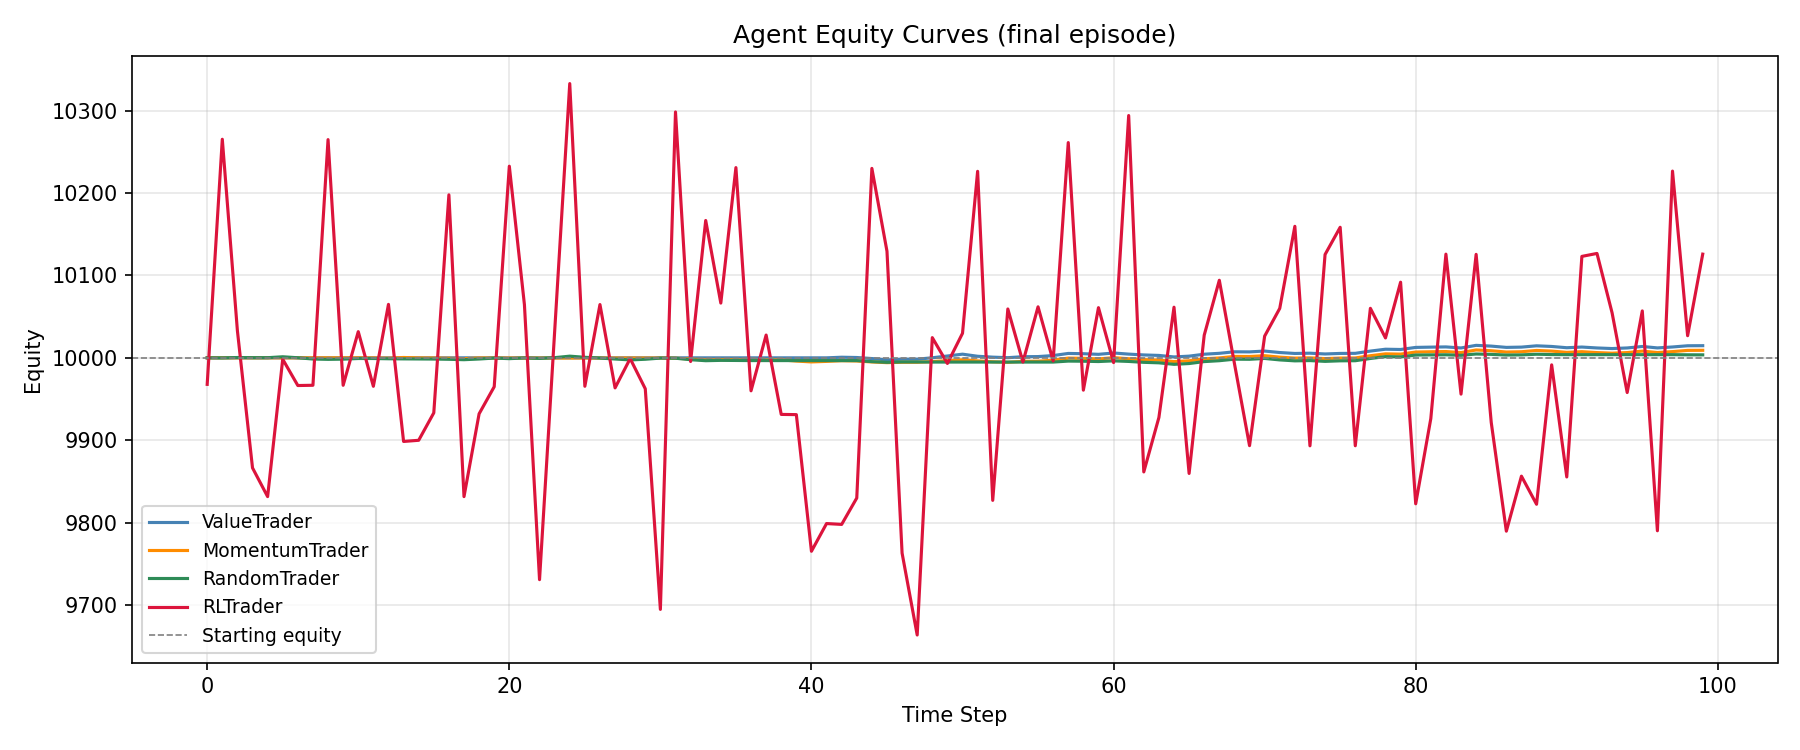
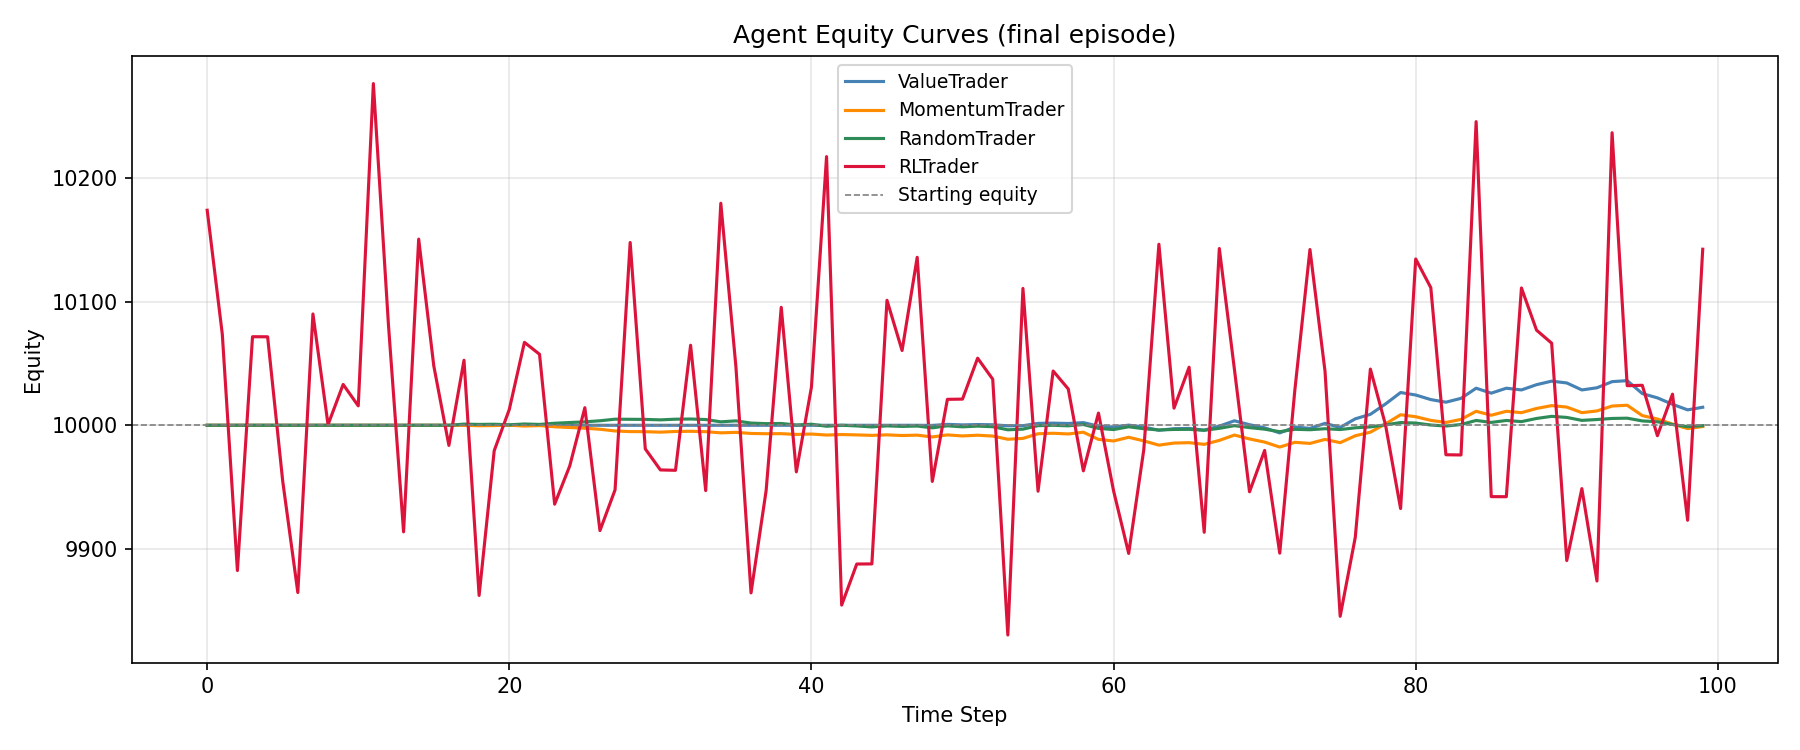
Incorporate market regime awareness into trading agent strategies
Add macro regime detection and regime-aware reward calculations, along with per-asset exposure caps to the trading agent and simulation environment.

Replit-Commit-Author: Agent
Replit-Commit-Session-Id: 3826bf3c-e3fd-4317-b321-61e418fea702
Replit-Commit-Checkpoint-Type: full_checkpoint
Replit-Commit-Event-Id: cc5d6da6-d74c-4f1c-ad96-4e71b029b605
Replit-Helium-Checkpoint-Created: true

diff --git a/project/simulation/simulation.py b/project/simulation/simulation.py
@@ -4,6 +4,14 @@ import random
 
 import numpy as np
 
+# ---------------------------------------------------------------------------
+# Macro feedback thresholds (tune these to match your vol/alt scale)
+# ---------------------------------------------------------------------------
+VOL_HIGH_THRESHOLD = 0.02   # vol_regime above this is "stressed"
+VOL_LOW_THRESHOLD  = 0.005  # vol_regime below this is "calm"
+ALT_HIGH_THRESHOLD = 0.6    # altseason_index above this is "risk-on"
+ALT_LOW_THRESHOLD  = 0.2    # altseason_index below this is "risk-off"
+
 from agents.trader_agent import ValueTrader, MomentumTrader, RandomTrader
 from agents.rl_agent import ReinforcementLearningTrader
 from agents.market_agent import MarketAgent
@@ -144,6 +152,15 @@ class Simulation:
         self.altseason_index  = 0.0   # composite altcoin momentum signal
         self.vol_regime       = 0.0   # cross-market realized volatility
         self.liq_regime       = 0.0   # cross-market average rolling volume
+
+        # --- Macro regime flag (set externally or via config) -------------
+        # +1 = bull, 0 = neutral, -1 = bear
+        # Can be changed between episodes or during a run from main.py.
+        self.macro_regime = 0
+
+        # --- Macro feedback message log -----------------------------------
+        # Populated each step when macro flag conflicts with market signals.
+        self.macro_messages = []
 
     # ------------------------------------------------------------------
     # Microstructure helper
@@ -460,6 +477,37 @@ class Simulation:
             state.altseason_index  = self.altseason_index
             state.vol_regime       = self.vol_regime
             state.liq_regime       = self.liq_regime
+            state.macro_regime     = self.macro_regime
+
+            # --- Macro feedback: detect signal / macro conflicts ----------
+            _mac = self.macro_regime
+            _alt = self.altseason_index
+            _vol = self.vol_regime
+            _btc = self.btc_dominance
+            _btc_rising  = _btc > 0.5
+            _btc_falling = _btc < 0.4
+            _msg = None
+            if _mac > 0:
+                # You say bull, but signals look stressed
+                if (_vol > VOL_HIGH_THRESHOLD
+                        and _alt < ALT_LOW_THRESHOLD
+                        and _btc_rising):
+                    _msg = (
+                        "Signals conflict with your macro call: bull vs stress "
+                        "(high vol, weak alts, rising BTC dominance)."
+                    )
+            elif _mac < 0:
+                # You say bear, but signals look risk-on
+                if (_vol < VOL_LOW_THRESHOLD
+                        and _alt > ALT_HIGH_THRESHOLD
+                        and _btc_falling):
+                    _msg = (
+                        "Signals conflict with your macro call: bear vs risk-on "
+                        "(low vol, strong alts, falling BTC dominance)."
+                    )
+            if _msg:
+                self.macro_messages.append(_msg)
+                print(f"[MacroFeedback] {_msg}")
 
             # --- Deliver queued orders that are due ----------------------
             # Use the *current* state for the risk check so a delayed order
@@ -501,12 +549,17 @@ class Simulation:
 
             # execute_portfolio_exposure() returns total txn cost across all
             # assets so the simulation can subtract it from the reward.
-            rl_txn_costs = {}
+            rl_txn_costs    = {}
+            rl_turnovers    = {}
             for agent in self.agents:
                 if isinstance(agent, ReinforcementLearningTrader):
+                    # Turnover = Σ |target − current| before the broker ramps.
+                    # Computed here so exposure-change caps don't hide it.
+                    rl_turnovers[agent] = sum(
+                        abs(agent.target_exposures[a] - agent.positions[a])
+                        for a in agent.assets
+                    )
                     # Build per-asset price dict from the simulation's buffers.
-                    # SOL uses the current tick price; others use the most recent
-                    # synthetic price appended earlier this step.
                     _asset_prices = {
                         a: (self.asset_prices[a][-1] if self.asset_prices[a] else 100.0)
                         for a in agent.assets
@@ -568,16 +621,37 @@ class Simulation:
                         state.equity_vol = 0.0
 
                     if agent.prev_state is not None:
-                        # Portfolio reward: equity change minus risk penalties
-                        # and total portfolio transaction costs.
+                        # --- Regime-aware portfolio reward ----------------
                         pnl_reward    = new_equity - agent.prev_equity
                         step_txn_cost = rl_txn_costs.get(agent, 0.0)
-                        reward = (
-                            pnl_reward
-                            - 0.1  * state.drawdown
-                            - 0.05 * state.equity_vol
-                            - step_txn_cost
-                        )
+                        turnover      = rl_turnovers.get(agent, 0.0)
+
+                        # Risk adjustments that apply regardless of regime
+                        risk_adj   = 0.1 * state.drawdown + 0.05 * state.equity_vol
+                        step_return = pnl_reward - risk_adj
+                        base_reward = step_return - step_txn_cost
+
+                        macro = self.macro_regime
+                        alt   = getattr(state, "altseason_index", 0.0)
+                        vol   = getattr(state, "vol_regime", 0.0)
+
+                        if macro > 0:
+                            # Bull: encourage upside capture, light turnover penalty
+                            turnover_penalty = 0.001 * turnover
+                            reward = base_reward * (1.0 + 0.5 * alt) - turnover_penalty
+                        elif macro < 0:
+                            # Bear: heavily penalize drawdowns and churn
+                            turnover_penalty = 0.005 * turnover
+                            downside = min(pnl_reward, 0.0)
+                            reward = (
+                                base_reward
+                                - 2.0 * abs(downside) * (1.0 + 5.0 * vol)
+                                - turnover_penalty
+                            )
+                        else:
+                            # Neutral: balanced middle ground
+                            turnover_penalty = 0.003 * turnover
+                            reward = base_reward - turnover_penalty
                         # --- Critic: N-step replay buffer update ----------
                         done = (current_step == SIMULATION_STEPS - 1)
                         agent.add_experience(

diff --git a/project/agents/rl_agent.py b/project/agents/rl_agent.py
@@ -190,7 +190,7 @@ class ReinforcementLearningTrader(TraderAgent):
 
     # Number of features produced by featurize_state().
     # Must match the length of the tuple featurize_state() returns.
-    FEATURE_DIM = 63   # 16 SOL-only + 40 cross-asset (8×5) + 7 crypto-regime
+    FEATURE_DIM = 64   # 16 SOL-only + 40 cross-asset (8×5) + 7 crypto-regime + 1 macro_regime
 
     def __init__(self, name, balance, latency=2):
         super().__init__(name, balance, latency)
@@ -198,16 +198,34 @@ class ReinforcementLearningTrader(TraderAgent):
         self.feature_dim = self.FEATURE_DIM
 
         # Multi-asset portfolio -------------------------------------------
-        self.assets    = list(self.PORTFOLIO_ASSETS)
+        self.assets     = list(self.PORTFOLIO_ASSETS)
         self.num_assets = len(self.assets)
 
         # Per-asset current exposures (floats in [-1, +1]).
         # self.position (from TraderAgent) is kept in sync with SOL.
-        self.positions       = {a: 0.0 for a in self.assets}
+        self.positions        = {a: 0.0 for a in self.assets}
         self.target_exposures = {a: 0.0 for a in self.assets}
 
         # Legacy single-asset compatibility (SOL):
         self.target_exposure = 0.0   # kept in sync with target_exposures["SOL"]
+
+        # Per-asset exposure caps — reflect the desired risk weighting:
+        # SOL > XRP > LINK > ETH > BTC (SOL is the highest-conviction asset;
+        # BTC is treated as a hedge so its max short is also the smallest).
+        self.max_long = {
+            "SOL":  1.0,
+            "XRP":  0.8,
+            "LINK": 0.7,
+            "ETH":  0.6,
+            "BTC":  0.3,
+        }
+        self.max_short = {
+            "SOL":  -0.5,
+            "XRP":  -0.4,
+            "LINK": -0.4,
+            "ETH":  -0.3,
+            "BTC":  -0.2,
+        }
 
         # ---------------------------------------------------------------
         # C51 distributional RL hyper-parameters
@@ -439,6 +457,11 @@ class ReinforcementLearningTrader(TraderAgent):
             getattr(market_state, "vol_regime",       0.0),
             getattr(market_state, "liq_regime",       0.0) / 1000.0,
         ])
+
+        # Feature 64: macro_regime flag — +1 bull, 0 neutral, -1 bear.
+        # Lets the network learn different behaviour under different
+        # macro stances without re-training from scratch each time.
+        features.append(float(getattr(market_state, "macro_regime", 0)))
 
         return tuple(features)
 

diff --git a/project/broker/broker.py b/project/broker/broker.py
@@ -100,8 +100,12 @@ class SimulatedBroker(Broker):
                 continue
 
             current = agent.positions[a]
-            target  = agent.target_exposures[a]
-            delta   = target - current
+            # Clamp the actor's raw target to the agent's per-asset exposure caps
+            # before computing the delta so the broker never executes beyond them.
+            cap_long  = agent.max_long.get(a,  1.0)
+            cap_short = agent.max_short.get(a, -1.0)
+            target = max(cap_short, min(cap_long, agent.target_exposures[a]))
+            delta  = target - current
 
             if abs(delta) < 0.05:
                 continue
@@ -117,9 +121,9 @@ class SimulatedBroker(Broker):
                 txn_cost = 0.0
 
             if delta > 0:
-                agent.positions[a] = min(1.0, current + change)
+                agent.positions[a] = min(cap_long,  current + change)
             else:
-                agent.positions[a] = max(-1.0, current - change)
+                agent.positions[a] = max(cap_short, current - change)
 
             agent.balance      -= txn_cost
             agent.realized_pnl -= txn_cost

diff --git a/project/main.py b/project/main.py
@@ -218,6 +218,10 @@ def main():
             )
             print(f"  {a.name:<18} equity: {eq:>10.2f}{tag}")
         print_risk_summary(risk_manager)
+        if hasattr(sim, "macro_messages") and sim.macro_messages:
+            print(f"  Macro feedback ({len(sim.macro_messages)} alert(s) this episode):")
+            for msg in sim.macro_messages[-5:]:
+                print(f"    - {msg}")
         print()
 
     # ---------------------------------------------------------------------------
